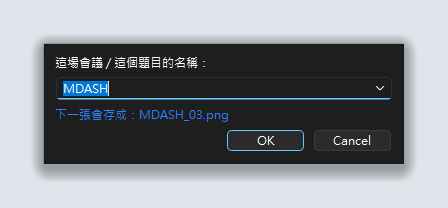
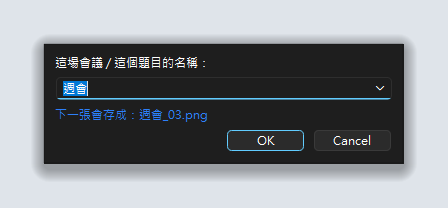
Use a generic example topic in the docs
The walkthrough, screenshots and release notes all used MDASH as the
topic name. It is a real internal research subject, and readers could
easily take it for a required keyword rather than an arbitrary label the
user types.

Switch every example to a plainly generic topic, re-theme the synthetic
desktop used for the screenshots so its slide and notes carry no real
subject matter, and state outright in the README that the topic is just
whatever name you pick.

Docs and test fixtures only; no behaviour change.

Changed region(s): [[0.3125, 0.5192, 0.5312, 0.6058], [0.125, 0.375, 0.25, 0.4615]]

diff --git a/docs/make_screenshots.py b/docs/make_screenshots.py
@@ -85,26 +85,26 @@ def window_frame(painter: QPainter, rect: QRect, title: str, dark: bool = False)
 
 
 def draw_slide(painter: QPainter) -> None:
-    body = window_frame(painter, SLIDE, "MDASH 架構說明 — 簡報.pptx")
+    body = window_frame(painter, SLIDE, "本週進度 — 簡報.pptx")
     painter.setPen(INK)
     painter.setFont(font(21, bold=True))
     painter.drawText(body.x() + 40, body.y() + 26, body.width() - 80, 46,
-                     Qt.AlignLeft | Qt.AlignVCenter, "兩種 MDASH 掃描路徑")
+                     Qt.AlignLeft | Qt.AlignVCenter, "兩種資料匯入方式")
 
     painter.setPen(QColor("#dfe4ea"))
     painter.drawLine(body.x() + 40, body.y() + 82, body.right() - 40, body.y() + 82)
 
     columns = [
-        ("Option 1：Remote Scan", [
-            "由平台端直接連線至目標儲存庫",
-            "需要 organization 層級的授權",
+        ("方式 A：線上同步", [
+            "由系統定時連線來源端取得資料",
+            "需要來源方開通存取權限",
             "適合集中控管、統一排程",
             "不需在每台機器安裝工具",
         ]),
-        ("Option 2：Local CLI", [
-            "在本機執行命令列工具掃描",
-            "不限儲存平台，任何來源都可以",
-            "需先取得完整的本機副本",
+        ("方式 B：本機匯入", [
+            "由承辦人手動上傳檔案匯入",
+            "不限來源格式，CSV 或 Excel 皆可",
+            "需先自行整理成指定欄位",
             "適合離線或受限網段環境",
         ]),
     ]
@@ -134,7 +134,7 @@ def draw_slide(painter: QPainter) -> None:
     painter.setFont(font(8))
     painter.drawText(body.x() + 40, body.bottom() - 40, body.width() - 80, 24,
                      Qt.AlignLeft | Qt.AlignVCenter,
-                     "補充說明：兩種路徑取得的掃描結果格式相同，可直接匯入同一份報告。")
+                     "補充說明：兩種方式匯入後的資料格式相同，可直接產出同一份報表。")
     painter.drawText(body.right() - 90, body.bottom() - 40, 50, 24,
                      Qt.AlignRight | Qt.AlignVCenter, "06 / 21")
 
@@ -144,12 +144,12 @@ def draw_notes(painter: QPainter) -> None:
     painter.setPen(QColor("#9fb0c6"))
     painter.setFont(font(11, bold=True))
     painter.drawText(body.x() + 22, body.y() + 16, body.width() - 44, 26,
-                     Qt.AlignLeft | Qt.AlignVCenter, "MDASH 導入討論")
+                     Qt.AlignLeft | Qt.AlignVCenter, "本週討論事項")
     painter.setFont(font(9))
     painter.setPen(QColor("#7d8ea6"))
     notes = [
-        "· 先確認授權範圍與適用單位",
-        "· 掃描頻率：每週一次排程",
+        "· 先確認兩種方式的適用範圍",
+        "· 同步頻率：每週一次排程",
         "· 結果統一匯入既有報表",
         "· 下次會議前補上成本估算",
         "",
@@ -163,7 +163,7 @@ def draw_notes(painter: QPainter) -> None:
 def draw_files(painter: QPainter) -> None:
     body = window_frame(painter, FILES, "SnipTag — 檔案總管")
     painter.setFont(font(9))
-    names = ["MDASH_01.png", "MDASH_02.png", "MDASH_03.png"]
+    names = ["週會_01.png", "週會_02.png", "週會_03.png"]
     for index, name in enumerate(names):
         top = body.y() + 16 + index * 44
         painter.setPen(Qt.NoPen)
@@ -286,14 +286,14 @@ def main() -> None:
 
     # 1. 拖曳框選中：暗化 + 尺寸標籤 + 放大鏡停在文字上（看得出逐像素放大）
     handle = QPoint(620, 348)   # 停在文字上，放大鏡才看得出逐像素
-    overlay = DemoOverlay(shot, "MDASH_03.png", handle)
+    overlay = DemoOverlay(shot, "週會_03.png", handle)
     overlay.selection = QRect(QPoint(88, 186), handle)
     overlay.settled = False
     save(overlay.grab(), "capture.png")
     overlay.close()
 
     # 2. 框選完成：控制點 + 工具列（含下一個檔名）
-    overlay = DemoOverlay(shot, "MDASH_03.png", QPoint(-1, -1))
+    overlay = DemoOverlay(shot, "週會_03.png", QPoint(-1, -1))
     overlay.selection = QRect(72, 186, 812, 364)
     overlay.settled = True
     overlay._show_toolbar()
@@ -301,7 +301,7 @@ def main() -> None:
     overlay.close()
 
     # 3. 標註：矩形、箭頭、螢光筆、馬賽克、文字全部用上
-    overlay = DemoOverlay(shot, "MDASH_03.png", QPoint(-1, -1))
+    overlay = DemoOverlay(shot, "週會_03.png", QPoint(-1, -1))
     overlay.selection = QRect(72, 186, 812, 364)
     overlay.settled = True
     red = annotate.Style("#f5423f", 4)
@@ -324,7 +324,7 @@ def main() -> None:
     overlay.close()
 
     # 4. 視窗自動偵測：還沒拖曳，游標停在筆記視窗上
-    overlay = DemoOverlay(shot, "MDASH_03.png", NOTES.center())
+    overlay = DemoOverlay(shot, "週會_03.png", NOTES.center())
     overlay.hover_rect = NOTES
     save(overlay.grab(), "window-detect.png")
     overlay.close()
@@ -351,8 +351,8 @@ def main() -> None:
 
     # 5. 主題對話框
     config = dict(DEFAULTS)
-    config["topic"] = "MDASH"
-    config["recent_topics"] = ["MDASH", "資安月報", "08-12 部務會議"]
+    config["topic"] = "週會"
+    config["recent_topics"] = ["週會", "產品簡報", "08-12 教育訓練"]
     # 用通用路徑，避免把產圖者的使用者名稱寫進文件
     config["save_dir"] = r"C:\Users\you\Pictures\SnipTag"
 
@@ -365,7 +365,7 @@ def main() -> None:
     demo_config = DemoConfig(config)
     (OUT / "_preview").mkdir(exist_ok=True)
     for index in (1, 2):
-        (OUT / "_preview" / f"MDASH_{index:02d}.png").write_bytes(b"")
+        (OUT / "_preview" / f"週會_{index:02d}.png").write_bytes(b"")
 
     topic_dialog = TopicDialog(demo_config)
     save_raw(panel(grab_dialog(topic_dialog)), "topic.png")
@@ -382,7 +382,7 @@ def main() -> None:
         QRect(72, 96, 816, 90), QRect(952, 78, 440, 366),
     )):
         piece = shot.crop(region)
-        history.add(piece, f"MDASH_{index + 1:02d}.png" if index < 3 else "")
+        history.add(piece, f"週會_{index + 1:02d}.png" if index < 3 else "")
     history_dialog = HistoryDialog(history, _NullApp())
     save_raw(panel(grab_dialog(history_dialog)), "history.png")
     history_dialog.close()

diff --git a/test_naming.py b/test_naming.py
@@ -20,7 +20,7 @@ class FakeConfig(dict):
 def make_config(tmp: Path, **overrides) -> FakeConfig:
     cfg = FakeConfig({
         "save_dir": str(tmp),
-        "topic": "MDASH",
+        "topic": "週會",
         "template": "{topic}_{n:02d}",
         "format": "png",
         "subfolder_per_topic": False,
@@ -41,8 +41,8 @@ def main() -> None:
         namer = Namer(cfg)
 
         print("流水號")
-        check(namer.preview() == "MDASH_01.png", "空資料夾 → MDASH_01.png")
-        for expected in ("MDASH_01.png", "MDASH_02.png", "MDASH_03.png"):
+        check(namer.preview() == "週會_01.png", "空資料夾 → 週會_01.png")
+        for expected in ("週會_01.png", "週會_02.png", "週會_03.png"):
             path = namer.next_path()
             check(path.name == expected, f"連號 {expected}")
             path.write_bytes(b"x")
@@ -52,28 +52,28 @@ def main() -> None:
         check(namer.preview() == "AI導入_01.png", "新主題從 01 開始")
         (tmp / "AI導入_01.png").write_bytes(b"x")
         check(namer.preview() == "AI導入_02.png", "新主題接著 02")
-        cfg["topic"] = "MDASH"
-        check(namer.preview() == "MDASH_04.png", "切回舊主題接續 04")
+        cfg["topic"] = "週會"
+        check(namer.preview() == "週會_04.png", "切回舊主題接續 04")
 
         print("刪中間不會覆蓋")
-        (tmp / "MDASH_02.png").unlink()
-        check(namer.preview() == "MDASH_04.png", "空缺不回填，仍是 04")
+        (tmp / "週會_02.png").unlink()
+        check(namer.preview() == "週會_04.png", "空缺不回填，仍是 04")
 
         print("樣板")
         cfg["template"] = "{date}_{topic}_{n:03d}"
         today = dt.datetime.now().strftime("%Y%m%d")
-        check(namer.preview() == f"{today}_MDASH_001.png", "日期樣板 + 三位數")
+        check(namer.preview() == f"{today}_週會_001.png", "日期樣板 + 三位數")
         cfg["template"] = "{topic}-{n}"
-        check(namer.preview() == "MDASH-1.png", "無補零")
+        check(namer.preview() == "週會-1.png", "無補零")
 
         print("格式與子資料夾")
         cfg["template"] = "{topic}_{n:02d}"
         cfg["format"] = "jpg"
-        check(namer.preview() == "MDASH_01.jpg", "換副檔名後編號獨立計算")
+        check(namer.preview() == "週會_01.jpg", "換副檔名後編號獨立計算")
         cfg["format"] = "png"
         cfg["subfolder_per_topic"] = True
-        check(namer.target_dir() == tmp / "MDASH", "子資料夾路徑")
-        check(namer.preview() == "MDASH_01.png", "子資料夾內從 01 開始")
+        check(namer.target_dir() == tmp / "週會", "子資料夾路徑")
+        check(namer.preview() == "週會_01.png", "子資料夾內從 01 開始")
 
         print("非法字元")
         check(sanitize('a/b:c*d?') == "a_b_c_d_", "檔名字元清洗")

diff --git a/test_history.py b/test_history.py
@@ -21,7 +21,7 @@ class FakeApp:
 
     def save_pixmap(self, _pixmap, record=True):
         self.calls.append(f"save(record={record})")
-        return type("P", (), {"name": "MDASH_07.png"})()
+        return type("P", (), {"name": "週會_07.png"})()
 
     def copy_to_clipboard(self, _pixmap):
         self.calls.append("copy")
@@ -69,7 +69,7 @@ def main() -> None:
 
     print("對話框")
     history = History()
-    history.add(swatch(30), "MDASH_01.png")
+    history.add(swatch(30), "週會_01.png")
     history.add(swatch(30))
     fake = FakeApp()
     dialog = HistoryDialog(history, fake)
@@ -83,7 +83,7 @@ def main() -> None:
     dialog.save_selected()
     check(fake.calls[-1] == "save(record=False)",
           "從歷史存檔不會再寫回歷史（避免無限增生）")
-    check(dialog.selected().name == "MDASH_07.png", "存檔後標籤更新成檔名")
+    check(dialog.selected().name == "週會_07.png", "存檔後標籤更新成檔名")
 
     dialog.delete_selected()
     check(dialog.list.count() == 1 and len(history) == 1, "刪除後清單同步")

diff --git a/test_annotate.py b/test_annotate.py
@@ -138,7 +138,7 @@ def main() -> None:
 
     print("文字")
     probe = new_overlay(shot)
-    probe.layer.add(annotate.TextShape(QPoint(200, 200), "MDASH",
+    probe.layer.add(annotate.TextShape(QPoint(200, 200), "週會",
                                        annotate.Style(color="#f5423f", width=4)))
     check(probe.render_result().toImage() != probe.shot.crop(SELECTION).toImage(),
           "文字有被畫上去")

diff --git a/sniptag/naming.py b/sniptag/naming.py
@@ -1,4 +1,4 @@
-"""自動命名：把「主題 + 流水號」變成檔名，例如 MDASH_01.png。
+"""自動命名：把「主題 + 流水號」變成檔名，例如 週會_01.png。
 
 編號是掃描目的資料夾算出來的（不是記在設定檔），所以刪檔、換主題、
 重開程式都不會亂掉 —— 永遠接在現有最大號後面。

diff --git a/README.md b/README.md
@@ -2,7 +2,7 @@
 
 # SnipTag
 
-**先定主題，再連續截圖 —— 檔名自動接續 `MDASH_01`、`MDASH_02`、`MDASH_03`…**
+**先定主題，再連續截圖 —— 檔名自動接續 `週會_01`、`週會_02`、`週會_03`…**
 
 一個常駐系統匣的 Windows 截圖工具。操作邏輯照著 Snipaste，
 但把「開會時連續截圖、每張都要重新命名」這件事整個拿掉。
@@ -29,14 +29,17 @@
 SnipTag 把這段砍成一個動作：
 
 ```
-Ctrl+F1  設定主題 → 輸入「MDASH」
+Ctrl+F1  設定主題 → 輸入「週會」
 
-Shift+F1 框一下 → MDASH_01.png   ← 放開滑鼠的瞬間就存好了
-Shift+F1 框一下 → MDASH_02.png
-Shift+F1 框一下 → MDASH_03.png
+Shift+F1 框一下 → 週會_01.png   ← 放開滑鼠的瞬間就存好了
+Shift+F1 框一下 → 週會_02.png
+Shift+F1 框一下 → 週會_03.png
 ```
 
 沒有對話框、沒有打字、不用選資料夾。整場會議就是「框、放、框、放」。
+
+> 「週會」只是這裡的範例。主題就是**你自己隨手取的任何名字** ——
+> 中英文、數字、空白都可以，換個主題編號就從 `01` 重新開始。
 
 ---
 
@@ -102,14 +105,14 @@ python -m sniptag
 
 ## 快速上手
 
-**1. 設定這場會議的主題** —— 按 `Ctrl+F1`，輸入 `MDASH`。
+**1. 設定這場會議的主題** —— 按 `Ctrl+F1`，輸入 `週會`。
 對話框會即時告訴你下一張會存成什麼。
 
 <img src="docs/topic.png" alt="設定主題" width="480">
 
 **2. 開始截圖** —— 按 `Shift+F1`，框一下，放開滑鼠。檔案已經存好了。
 
-想先確認再存的話按 `F1`，工具列左邊會顯示 `→ MDASH_03.png`，按 `Enter` 存檔。
+想先確認再存的話按 `F1`，工具列左邊會顯示 `→ 週會_03.png`，按 `Enter` 存檔。
 
 **3. 換一場會議** —— 再按 `Ctrl+F1` 換個主題，編號自動從 `01` 重新開始。
 
@@ -125,7 +128,7 @@ python -m sniptag
 
 ### 框選完成：工具列直接告訴你檔名
 
-左下角的 `→ MDASH_03.png` 就是按下「存檔」後的結果。框好之後還能拖曳邊角調整、整塊搬移。
+左下角的 `→ 週會_03.png` 就是按下「存檔」後的結果。框好之後還能拖曳邊角調整、整塊搬移。
 
 <img src="docs/toolbar.png" alt="工具列" width="820">
 
@@ -266,7 +269,7 @@ python -m sniptag
 
 | 欄位 | 產出 |
 | --- | --- |
-| `{topic}` | 目前主題，例如 `MDASH` |
+| `{topic}` | 目前主題，例如 `週會` |
 | `{n}` | 流水號。`{n:02d}` → `01`、`{n:03d}` → `001` |
 | `{date}` | `20260812` |
 | `{date2}` | `08-12` |
@@ -277,9 +280,9 @@ python -m sniptag
 
 | 樣板 | 結果 |
 | --- | --- |
-| `{topic}_{n:02d}` | `MDASH_01.png` |
+| `{topic}_{n:02d}` | `週會_01.png` |
 | `{date2}_{n:02d}` | `08-12_01.png`（用日期當主題） |
-| `{date}_{topic}_{n:03d}` | `20260812_MDASH_001.png` |
+| `{date}_{topic}_{n:03d}` | `20260812_週會_001.png` |
 
 ### 編號怎麼決定的
 
@@ -290,7 +293,7 @@ python -m sniptag
 - 手動刪掉中間某張 → **不回填空號**，永遠接在最大號之後，不會蓋掉既有檔案
 - 手動搬走整批檔案 → 下次自動從 `01` 重來
 
-打開「每個主題各開一個子資料夾」後，會存成 `<存檔資料夾>/MDASH/MDASH_01.png`。
+打開「每個主題各開一個子資料夾」後，會存成 `<存檔資料夾>/週會/週會_01.png`。
 
 ---
 
@@ -317,7 +320,7 @@ python -m sniptag
 ```json
 {
   "save_dir": "C:\\Users\\<you>\\Pictures\\SnipTag",
-  "topic": "MDASH",
+  "topic": "週會",
   "template": "{topic}_{n:02d}",
   "format": "png",
   "subfolder_per_topic": false,
